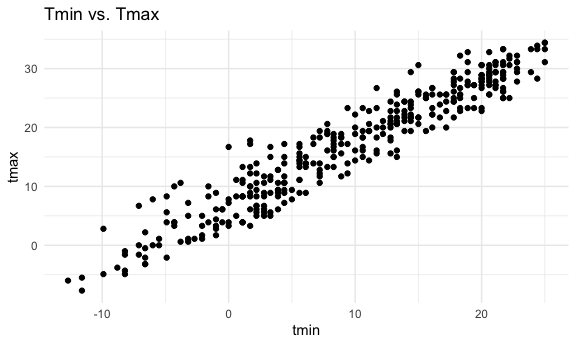
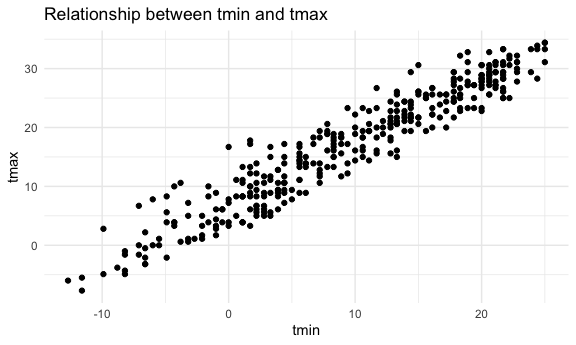
Added analysis of distributions of quantities in problem 2

Changed region(s): [[0.0625, 0.0, 0.5938, 0.058]]

diff --git a/p8105_hw6_rr3423.md b/p8105_hw6_rr3423.md
@@ -496,14 +496,14 @@ weather_df %>%
   ggplot(aes(x = tmin, y = tmax)) + 
   geom_point() + 
   labs(
-    title = "Tmin vs. Tmax"
+    title = "Relationship between tmin and tmax"
   )
 ```
 
 <img src="p8105_hw6_rr3423_files/figure-gfm/data_plot-1.png" width="90%" />
 
-Based on this graph, the relationship between tmax and tmin appears
-relatively linear
+Based on this graph, tmax and tmin appear to have a relatively positive
+linear association
 
 # Looking at the simple linear regression model
 
@@ -562,6 +562,11 @@ bootstrap_results %>%
 
 <img src="p8105_hw6_rr3423_files/figure-gfm/log_plot-1.png" width="90%" />
 
+The distribution of log (*β̂*<sub>0</sub> \* *β̂*<sub>1</sub>) appears
+relatively normal, though there does appear to be a bit of a “shoulder”
+at the top (the graph is not a smooth curve at the peak) of the graph
+which could suggest the presence of outliers in the dataset.
+
 Looking at the distribution of *r̂*<sup>2</sup>:
 
 ``` r
@@ -575,6 +580,10 @@ bootstrap_results %>%
 ```
 
 <img src="p8105_hw6_rr3423_files/figure-gfm/r_plot-1.png" width="90%" />
+
+The distribution of *r̂*<sup>2</sup> appears relatively normal, though
+there is a slightly heavy left tail extending to low values which could
+suggest the presence of some outliers in the dataset.
 
 ### Getting the 95% confidence intervals for the two quantities
 
@@ -600,7 +609,7 @@ bootstrap_results %>%
 
 | Quantity  | ci\_lower | ci\_upper |
 |:----------|----------:|----------:|
-| log       |     7.130 |     7.833 |
+| log       |     7.143 |     7.833 |
 | r.squared |     0.894 |     0.927 |
 
 The 95% confidence interval for log (*β̂*<sub>0</sub> \* *β̂*<sub>1</sub>)
